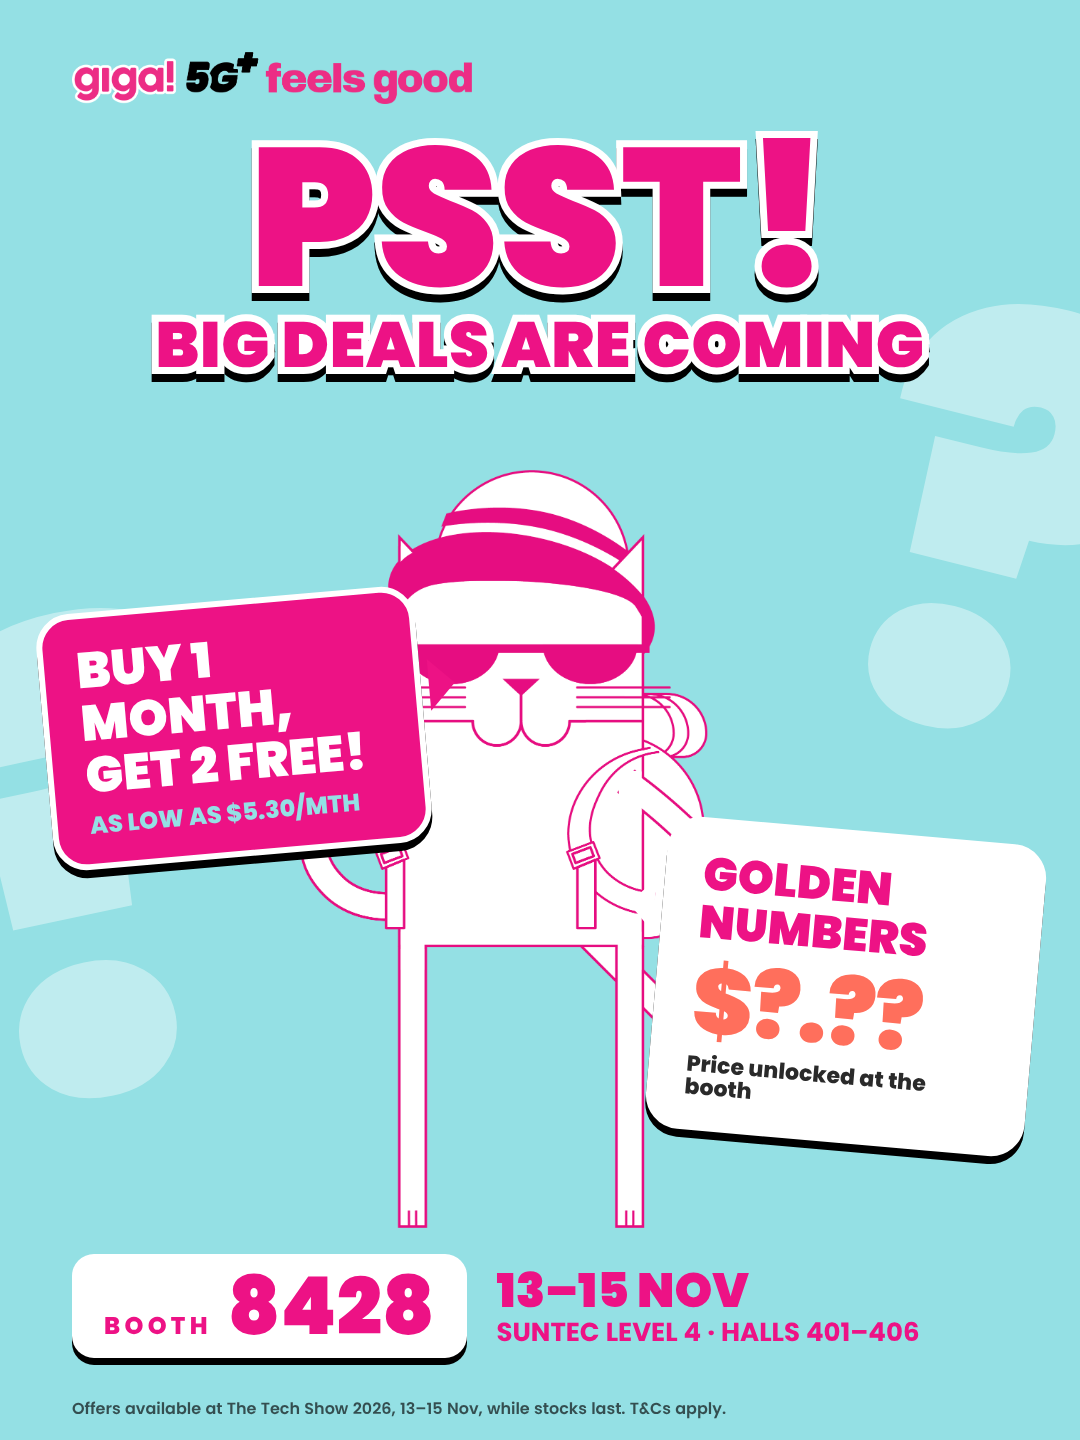
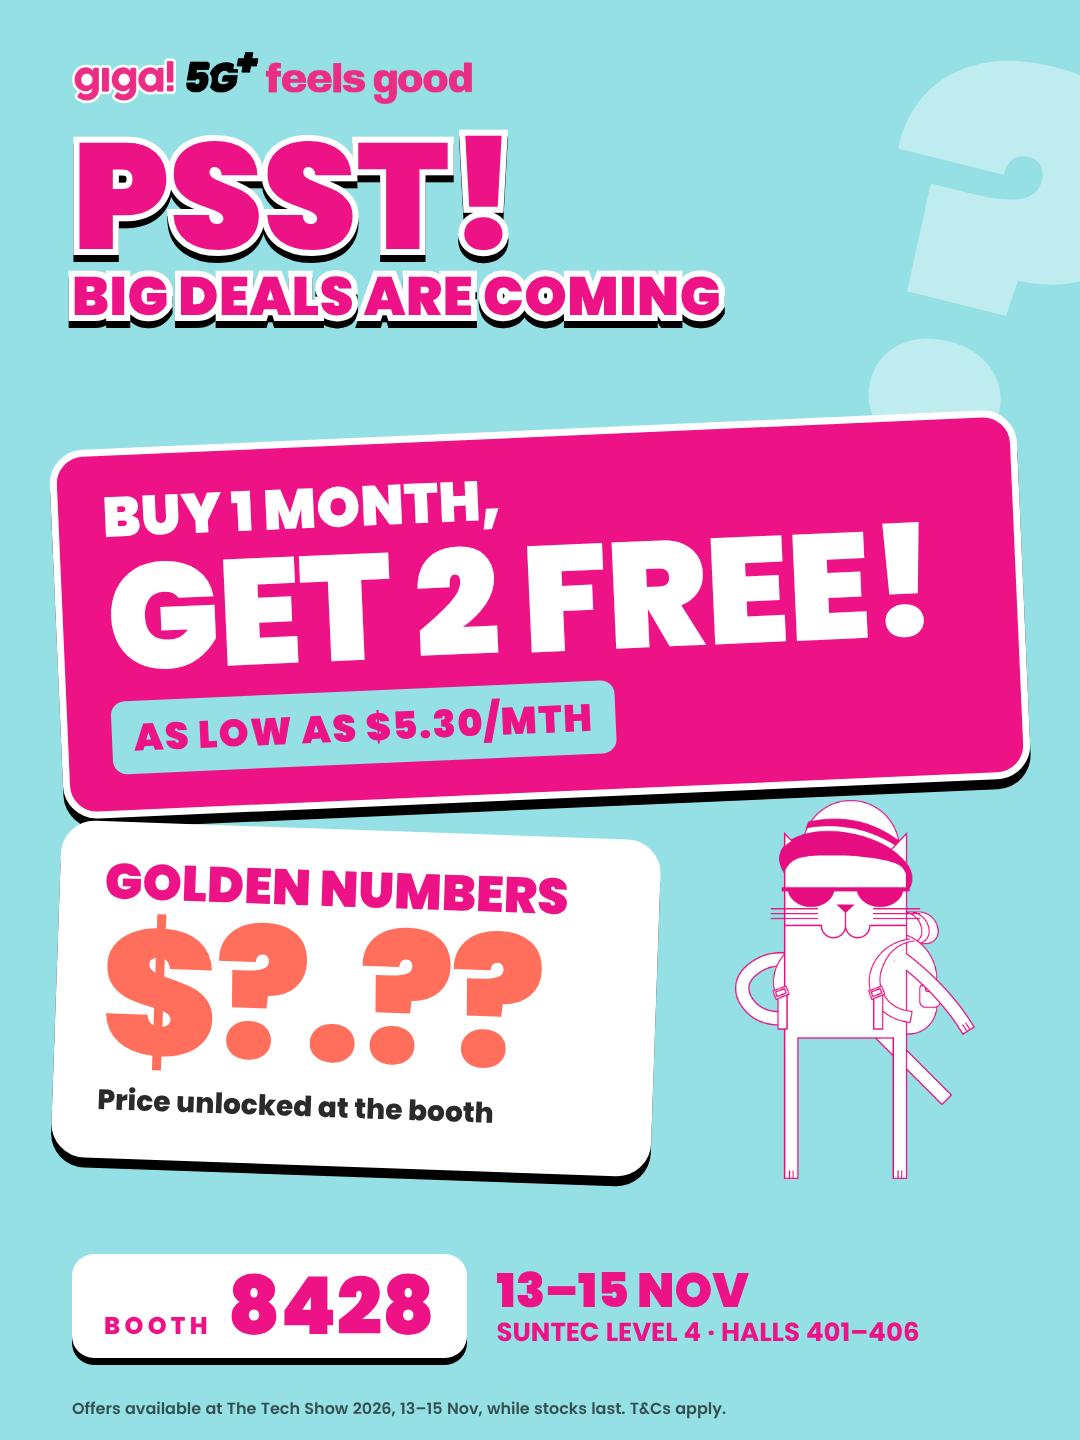
Post 2: offers lead, Gino supporting; fix bubble tail overlapping sunglasses
Claude-Session: https://claude.ai/code/session_01QpHBCYvf2HgUsT79rZy6ps

diff --git a/giga-tech-show/post-2-tease.html b/giga-tech-show/post-2-tease.html
@@ -3,28 +3,27 @@
 <link rel="stylesheet" href="assets/common.css">
 <style>
 .q{position:absolute;font-weight:900;color:rgba(255,255,255,.4);line-height:1}
-.h2{position:absolute;left:0;right:0;text-align:center;top:128px;z-index:4;font-weight:900;text-transform:uppercase;line-height:.92;color:var(--pink);-webkit-text-stroke:14px var(--white);paint-order:stroke fill;filter:drop-shadow(0 8px 0 var(--black))}
-.h2 .a{font-size:196px;display:block}
-.h2 .b{font-size:64px;display:block;margin-top:8px;letter-spacing:.01em}
-.bubble{position:absolute;z-index:5;border-radius:34px;padding:26px 32px;font-weight:900;line-height:1.05;box-shadow:0 8px 0 var(--black);border:6px solid var(--white)}
-.bubble:after{content:"";position:absolute;width:0;height:0;border:26px solid transparent}
-.bl{left:44px;top:600px;width:380px;background:var(--pink);color:var(--white);transform:rotate(-5deg);font-size:50px}
-.bl:after{right:-40px;top:70px;border-left-color:var(--pink);border-right:0}
-.bl small{display:block;font-size:24px;font-weight:800;margin-top:10px;color:var(--teal)}
-.br{right:44px;top:830px;width:380px;background:var(--white);color:var(--pink);transform:rotate(5deg);font-size:46px}
-.br:after{left:-40px;top:60px;border-right-color:var(--white);border-left:0}
-.br b{display:block;font-size:92px;color:var(--coral);letter-spacing:-.02em;margin-top:6px}
-.br small{display:block;font-size:22px;font-weight:800;color:#2a2a2a;margin-top:4px}
+.h2{position:absolute;left:72px;top:128px;z-index:4;font-weight:900;text-transform:uppercase;line-height:.92;color:var(--pink);-webkit-text-stroke:12px var(--white);paint-order:stroke fill;filter:drop-shadow(0 7px 0 var(--black))}
+.h2 .a{font-size:150px;display:block}
+.h2 .b{font-size:54px;display:block;margin-top:6px;letter-spacing:.01em}
+.offer{position:absolute;z-index:5;border-radius:34px;box-shadow:0 10px 0 var(--black);border:7px solid var(--white)}
+.o1{left:56px;top:430px;width:968px;background:var(--pink);color:var(--white);transform:rotate(-2.5deg);padding:34px 44px 36px}
+.o1 .l1{font-weight:900;font-size:56px;line-height:1}
+.o1 .l2{font-weight:900;font-size:150px;line-height:.92;letter-spacing:-.01em;margin-top:4px}
+.o1 .l3{display:inline-block;margin-top:14px;background:var(--teal);color:var(--pink);font-weight:900;font-size:38px;letter-spacing:.04em;padding:8px 22px;border-radius:14px}
+.o2{left:56px;top:830px;width:600px;background:var(--white);color:var(--pink);transform:rotate(2deg);padding:28px 38px 30px}
+.o2 .l1{font-weight:900;font-size:50px;line-height:1}
+.o2 .l2{font-weight:900;font-size:176px;line-height:.95;color:var(--coral);letter-spacing:-.02em;margin-top:2px}
+.o2 .l3{font-weight:800;font-size:28px;color:#2a2a2a;margin-top:4px}
 </style></head>
 <body><div class="post" id="post" style="background:var(--teal)">
 
 <img class="logo" src="assets/logo-lockup.png" alt="giga! 5G+ feels good" style="left:72px;top:52px;width:400px">
-<div class="q" style="left:-60px;top:560px;font-size:620px;transform:rotate(-12deg)">?</div>
-<div class="q" style="right:-80px;top:260px;font-size:560px;transform:rotate(14deg)">?</div>
+<div class="q" style="right:-60px;top:20px;font-size:520px;transform:rotate(14deg)">?</div>
 <h1 class="h2"><span class="a">Psst!</span><span class="b">Big deals are coming</span></h1>
-<img class="gino" src="assets/gino-cool.png" style="left:300px;top:470px;width:480px" alt="Gino">
-<div class="bubble bl">BUY 1 MONTH,<br>GET 2 FREE!<small>AS LOW AS $5.30/MTH</small></div>
-<div class="bubble br">GOLDEN NUMBERS<b>$?.??</b><small>Price unlocked at the booth</small></div>
+<div class="offer o1"><div class="l1">BUY 1 MONTH,</div><div class="l2">GET 2 FREE!</div><div class="l3">AS LOW AS $5.30/MTH</div></div>
+<div class="offer o2"><div class="l1">GOLDEN NUMBERS</div><div class="l2">$?.??</div><div class="l3">Price unlocked at the booth</div></div>
+<img class="gino" src="assets/gino-cool.png" style="left:735px;top:800px;width:240px;z-index:4" alt="Gino">
 <div class="strip" style="top:1254px;left:72px"><div class="booth"><small>BOOTH</small><strong>8428</strong></div>
 <div class="when" style="color:var(--pink)">13–15 Nov<span>Suntec Level 4 · Halls 401–406</span></div></div>
 <div class="fine" style="color:rgba(0,0,0,.65)">Offers available at The Tech Show 2026, 13–15 Nov, while stocks last. T&amp;Cs apply.</div>

diff --git a/giga-tech-show/tools/build_posts_v2.py b/giga-tech-show/tools/build_posts_v2.py
@@ -14,30 +14,29 @@ def fine(txt,color='rgba(255,255,255,.92)'):
     return f'<div class="fine" style="color:{color}">{txt}</div>'
 OUT={}
 
-# ---------------- 2: TEASE (teal, Gino centre, speech bubbles) ----------------
+# ---------------- 2: TEASE (teal, offers lead, Gino supporting) ----------------
 css2='''
 .q{position:absolute;font-weight:900;color:rgba(255,255,255,.4);line-height:1}
-.h2{position:absolute;left:0;right:0;text-align:center;top:128px;z-index:4;font-weight:900;text-transform:uppercase;line-height:.92;color:var(--pink);-webkit-text-stroke:14px var(--white);paint-order:stroke fill;filter:drop-shadow(0 8px 0 var(--black))}
-.h2 .a{font-size:196px;display:block}
-.h2 .b{font-size:64px;display:block;margin-top:8px;letter-spacing:.01em}
-.bubble{position:absolute;z-index:5;border-radius:34px;padding:26px 32px;font-weight:900;line-height:1.05;box-shadow:0 8px 0 var(--black);border:6px solid var(--white)}
-.bubble:after{content:"";position:absolute;width:0;height:0;border:26px solid transparent}
-.bl{left:44px;top:600px;width:380px;background:var(--pink);color:var(--white);transform:rotate(-5deg);font-size:50px}
-.bl:after{right:-40px;top:70px;border-left-color:var(--pink);border-right:0}
-.bl small{display:block;font-size:24px;font-weight:800;margin-top:10px;color:var(--teal)}
-.br{right:44px;top:830px;width:380px;background:var(--white);color:var(--pink);transform:rotate(5deg);font-size:46px}
-.br:after{left:-40px;top:60px;border-right-color:var(--white);border-left:0}
-.br b{display:block;font-size:92px;color:var(--coral);letter-spacing:-.02em;margin-top:6px}
-.br small{display:block;font-size:22px;font-weight:800;color:#2a2a2a;margin-top:4px}
+.h2{position:absolute;left:72px;top:128px;z-index:4;font-weight:900;text-transform:uppercase;line-height:.92;color:var(--pink);-webkit-text-stroke:12px var(--white);paint-order:stroke fill;filter:drop-shadow(0 7px 0 var(--black))}
+.h2 .a{font-size:150px;display:block}
+.h2 .b{font-size:54px;display:block;margin-top:6px;letter-spacing:.01em}
+.offer{position:absolute;z-index:5;border-radius:34px;box-shadow:0 10px 0 var(--black);border:7px solid var(--white)}
+.o1{left:56px;top:430px;width:968px;background:var(--pink);color:var(--white);transform:rotate(-2.5deg);padding:34px 44px 36px}
+.o1 .l1{font-weight:900;font-size:56px;line-height:1}
+.o1 .l2{font-weight:900;font-size:150px;line-height:.92;letter-spacing:-.01em;margin-top:4px}
+.o1 .l3{display:inline-block;margin-top:14px;background:var(--teal);color:var(--pink);font-weight:900;font-size:38px;letter-spacing:.04em;padding:8px 22px;border-radius:14px}
+.o2{left:56px;top:830px;width:600px;background:var(--white);color:var(--pink);transform:rotate(2deg);padding:28px 38px 30px}
+.o2 .l1{font-weight:900;font-size:50px;line-height:1}
+.o2 .l2{font-weight:900;font-size:176px;line-height:.95;color:var(--coral);letter-spacing:-.02em;margin-top:2px}
+.o2 .l3{font-weight:800;font-size:28px;color:#2a2a2a;margin-top:4px}
 '''
 b2=f'''
 <img class="logo" src="assets/logo-lockup.png" alt="giga! 5G+ feels good" style="left:72px;top:52px;width:400px">
-<div class="q" style="left:-60px;top:560px;font-size:620px;transform:rotate(-12deg)">?</div>
-<div class="q" style="right:-80px;top:260px;font-size:560px;transform:rotate(14deg)">?</div>
+<div class="q" style="right:-60px;top:20px;font-size:520px;transform:rotate(14deg)">?</div>
 <h1 class="h2"><span class="a">Psst!</span><span class="b">Big deals are coming</span></h1>
-<img class="gino" src="assets/gino-cool.png" style="left:300px;top:470px;width:480px" alt="Gino">
-<div class="bubble bl">BUY 1 MONTH,<br>GET 2 FREE!<small>AS LOW AS $5.30/MTH</small></div>
-<div class="bubble br">GOLDEN NUMBERS<b>$?.??</b><small>Price unlocked at the booth</small></div>
+<div class="offer o1"><div class="l1">BUY 1 MONTH,</div><div class="l2">GET 2 FREE!</div><div class="l3">AS LOW AS $5.30/MTH</div></div>
+<div class="offer o2"><div class="l1">GOLDEN NUMBERS</div><div class="l2">$?.??</div><div class="l3">Price unlocked at the booth</div></div>
+<img class="gino" src="assets/gino-cool.png" style="left:735px;top:800px;width:240px;z-index:4" alt="Gino">
 {strip('teal')}
 {fine('Offers available at The Tech Show 2026, 13–15 Nov, while stocks last. T&amp;Cs apply.','rgba(0,0,0,.65)')}'''
 OUT['post-2-tease']=HEAD.format(t='Post 2: Tease',css=css2,bg='background:var(--teal)',body=b2)
